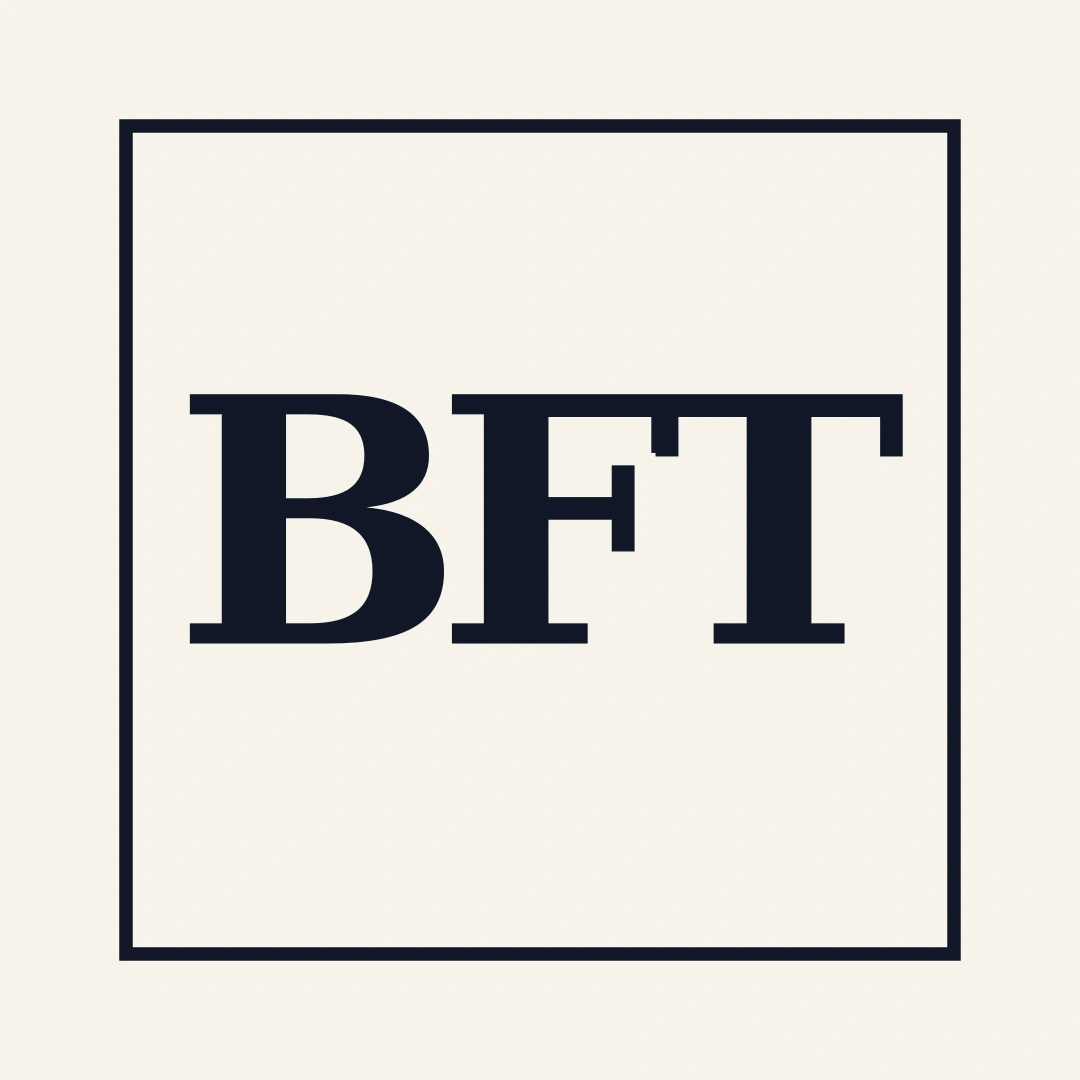
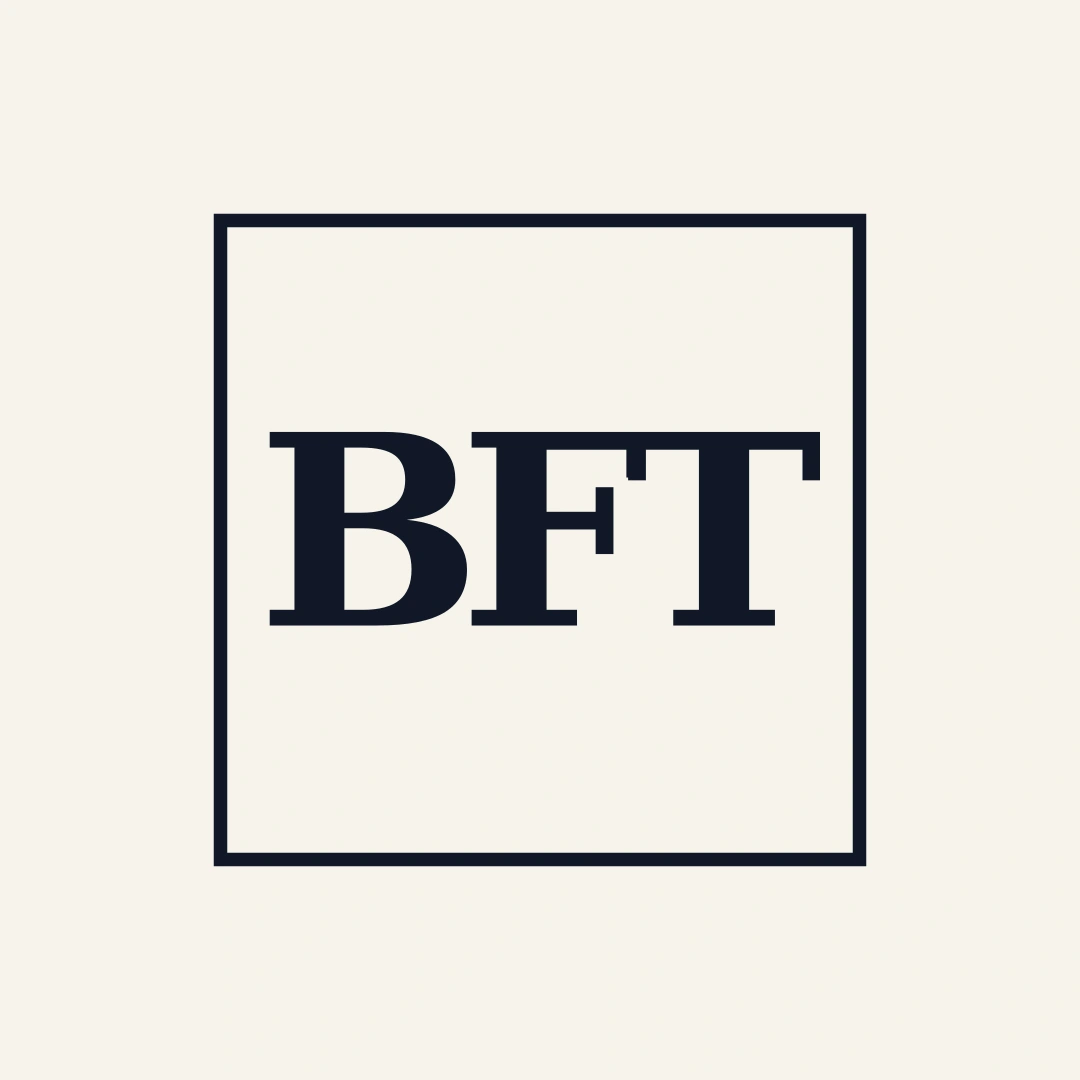
Make social profile marks circle-safe

Changed region(s): [[0.0917, 0.0917, 0.9167, 0.9167]]

diff --git a/app/brand-review/page.tsx b/app/brand-review/page.tsx
@@ -1,5 +1,5 @@
 import type {Metadata} from 'next';import fs from 'node:fs/promises';import path from 'node:path';
-type Asset={name:string;meta:string;src:string;kind:'wide'|'square';dark?:boolean};type Section={id:string;title:string;description:string;assets:Asset[]};type Manifest={brand:{name:string;shortName:string;tagline:string;domain:string;activeConcept:string;concept:{id:string;name:string;description:string};colors:Record<string,string>;rules:{compactMark:string;wordmark:string;minimumClearspace:string;doNot:string[]}};assetCount:number;sections:Section[]};
+type Asset={name:string;meta:string;src:string;kind:'wide'|'square';dark?:boolean};type Section={id:string;title:string;description:string;assets:Asset[]};type Manifest={brand:{name:string;shortName:string;tagline:string;domain:string;activeConcept:string;concept:{id:string;name:string;description:string};colors:Record<string,string>;rules:{compactMark:string;wordmark:string;minimumClearspace:string;profileCrop?:string;doNot:string[]}};assetCount:number;sections:Section[]};
 export const metadata:Metadata={title:'Brand Review',robots:{index:false,follow:false}};
-export default async function Page(){const m:Manifest=JSON.parse(await fs.readFile(path.join(process.cwd(),'public/brand-review-assets/manifest.json'),'utf8'));const b=m.brand;return <main className="brand-review brand-review--single"><header className="brand-review__hero"><div><p className="brand-review__eyebrow">BUSINESS FUTURE TODAY · BRAND SYSTEM</p><h1>{b.concept.name}</h1><p>{b.concept.description}</p></div><div className="brand-review__status"><span>CANONICAL BRAND</span><strong>{b.activeConcept}</strong><small>{m.assetCount} generated assets · one source of truth</small></div></header><section className="brand-review__tokens"><Token n="Ink" v={b.colors.ink}/><Token n="Paper" v={b.colors.paper}/><Token n="Accent" v={b.colors.accent}/><Token n="Muted" v={b.colors.muted}/></section><section className="brand-review__guidelines"><div><p className="brand-review__eyebrow">IDENTITY RULES</p><h2>How the brand behaves.</h2></div><div className="brand-review__rulegrid"><Rule n="Compact mark" v={b.rules.compactMark}/><Rule n="Wordmark" v={b.rules.wordmark}/><Rule n="Clearspace" v={b.rules.minimumClearspace}/><Rule n="Domain" v={b.domain}/></div><div className="brand-review__dont"><strong>Do not</strong>{b.rules.doNot.map(x=><span key={x}>{x}</span>)}</div></section>{m.sections.map(s=><section key={s.id} className="brand-library"><header><div><p className="brand-review__eyebrow">{s.id.replaceAll('-',' ')}</p><h2>{s.title}</h2><p>{s.description}</p></div><span>{s.assets.length} assets</span></header><div className={`brand-library__grid brand-library__grid--${s.id}`}>{s.assets.map(a=><AssetCard key={a.src} asset={a}/>)}</div></section>)}<section className="brand-review__handoff"><p className="brand-review__eyebrow">SYSTEM HANDOFF</p><h2>One brand config drives everything.</h2><div><span><strong>Source</strong>content/brand/brand.json</span><span><strong>Renderer</strong>scripts/render-brand-assets.mjs</span><span><strong>Review</strong>/brand-review</span><span><strong>Next integration</strong>Site + social renderer + newsletter</span></div></section></main>}
+export default async function Page(){const m:Manifest=JSON.parse(await fs.readFile(path.join(process.cwd(),'public/brand-review-assets/manifest.json'),'utf8'));const b=m.brand;return <main className="brand-review brand-review--single"><header className="brand-review__hero"><div><p className="brand-review__eyebrow">BUSINESS FUTURE TODAY · BRAND SYSTEM</p><h1>{b.concept.name}</h1><p>{b.concept.description}</p></div><div className="brand-review__status"><span>CANONICAL BRAND</span><strong>{b.activeConcept}</strong><small>{m.assetCount} generated assets · one source of truth</small></div></header><section className="brand-review__tokens"><Token n="Ink" v={b.colors.ink}/><Token n="Paper" v={b.colors.paper}/><Token n="Accent" v={b.colors.accent}/><Token n="Muted" v={b.colors.muted}/></section><section className="brand-review__guidelines"><div><p className="brand-review__eyebrow">IDENTITY RULES</p><h2>How the brand behaves.</h2></div><div className="brand-review__rulegrid"><Rule n="Compact mark" v={b.rules.compactMark}/><Rule n="Wordmark" v={b.rules.wordmark}/><Rule n="Clearspace" v={b.rules.minimumClearspace}/><Rule n="Profile crop" v={b.rules.profileCrop||"Circle-safe inset mark for social avatars."}/><Rule n="Domain" v={b.domain}/></div><div className="brand-review__dont"><strong>Do not</strong>{b.rules.doNot.map(x=><span key={x}>{x}</span>)}</div></section>{m.sections.map(s=><section key={s.id} className="brand-library"><header><div><p className="brand-review__eyebrow">{s.id.replaceAll('-',' ')}</p><h2>{s.title}</h2><p>{s.description}</p></div><span>{s.assets.length} assets</span></header><div className={`brand-library__grid brand-library__grid--${s.id}`}>{s.assets.map(a=><AssetCard key={a.src} asset={a}/>)}</div></section>)}<section className="brand-review__handoff"><p className="brand-review__eyebrow">SYSTEM HANDOFF</p><h2>One brand config drives everything.</h2><div><span><strong>Source</strong>content/brand/brand.json</span><span><strong>Renderer</strong>scripts/render-brand-assets.mjs</span><span><strong>Review</strong>/brand-review</span><span><strong>Next integration</strong>Site + social renderer + newsletter</span></div></section></main>}
 function Token({n,v}:{n:string;v:string}){return <div><span>{n}</span><i style={{background:v}}/><code>{v}</code></div>};function Rule({n,v}:{n:string;v:string}){return <div><strong>{n}</strong><span>{v}</span></div>};function AssetCard({asset:a}:{asset:Asset}){return <article className={`brand-asset ${a.kind==='square'?'brand-asset--square':''} ${a.dark?'brand-asset--dark':''}`}><div className="brand-asset__label"><strong>{a.name}</strong><span>{a.meta}</span></div><a href={a.src} target="_blank" rel="noreferrer"><div className="brand-asset__stage"><img src={a.src} alt={a.name}/></div></a><a href={a.src} target="_blank" rel="noreferrer" className="brand-asset__open">Open asset ↗</a></article>}

diff --git a/app/globals.css b/app/globals.css
@@ -261,3 +261,6 @@ h1, h2, h3 { font-weight: 600; letter-spacing: -.06em; }
 .brand-review--single .brand-review__hero h1{text-transform:none}.brand-review__guidelines,.brand-library,.brand-review__handoff{max-width:1500px;margin:0 auto 64px}.brand-review__guidelines{background:#fff;border:1px solid #d7dce3;padding:34px}.brand-review__guidelines h2,.brand-library h2,.brand-review__handoff h2{margin:6px 0 10px;font-size:42px;letter-spacing:-.045em}.brand-review__rulegrid{display:grid;grid-template-columns:repeat(4,1fr);gap:1px;background:#d7dce3;margin-top:26px}.brand-review__rulegrid>div{background:#fff;padding:20px;display:grid;gap:8px}.brand-review__rulegrid strong{font-size:11px;text-transform:uppercase;letter-spacing:.07em}.brand-review__rulegrid span{color:#596474;font:14px/1.45 Georgia,serif}.brand-review__dont{display:flex;gap:18px;flex-wrap:wrap;margin-top:20px;padding-top:20px;border-top:1px solid #e0e4e9}.brand-review__dont strong{font-size:11px;text-transform:uppercase;letter-spacing:.07em}.brand-review__dont span{font-size:12px;color:#667180}.brand-library{padding-top:28px;border-top:3px solid #111827}.brand-library>header{display:flex;justify-content:space-between;gap:30px;align-items:flex-end;margin-bottom:22px}.brand-library>header>div>p:last-child{max-width:720px;margin:0;color:#5d6878;font:15px/1.45 Georgia,serif}.brand-library>header>span{font-size:11px;color:#727d8c;text-transform:uppercase;letter-spacing:.08em}.brand-library__grid{display:grid;grid-template-columns:repeat(2,minmax(0,1fr));gap:20px}.brand-library__grid--icons,.brand-library__grid--profiles{grid-template-columns:repeat(4,minmax(0,1fr))}.brand-library__grid--social-system{grid-template-columns:repeat(2,minmax(0,1fr))}.brand-asset__stage{min-height:160px;display:grid;place-items:center;background:#f6f3eb;border:1px solid #ece9e1;overflow:hidden}.brand-asset--dark .brand-asset__stage{background:#111827}.brand-asset__stage img{max-width:100%;max-height:100%;object-fit:contain}.brand-library__grid--master .brand-asset--square .brand-asset__stage,.brand-library__grid--icons .brand-asset__stage,.brand-library__grid--profiles .brand-asset__stage{aspect-ratio:1}.brand-library__grid--icons .brand-asset__stage img{width:74%;height:74%;object-fit:contain}.brand-review__handoff{background:#111827;color:#fff;padding:38px}.brand-review__handoff .brand-review__eyebrow{color:#98a3b2}.brand-review__handoff>div{display:grid;grid-template-columns:repeat(4,1fr);gap:1px;background:#394150;margin-top:24px}.brand-review__handoff span{background:#111827;padding:20px;display:grid;gap:7px;color:#b8c1cd;font:13px/1.4 Georgia,serif}.brand-review__handoff strong{color:#fff;font:800 10px Arial;text-transform:uppercase;letter-spacing:.07em}@media(max-width:1100px){.brand-review__rulegrid,.brand-review__handoff>div{grid-template-columns:1fr 1fr}.brand-library__grid--icons,.brand-library__grid--profiles{grid-template-columns:repeat(2,1fr)}}@media(max-width:680px){.brand-review__rulegrid,.brand-review__handoff>div,.brand-library__grid,.brand-library__grid--icons,.brand-library__grid--profiles,.brand-library__grid--social-system{grid-template-columns:1fr}.brand-library>header{display:block}.brand-library>header>span{display:inline-block;margin-top:8px}.brand-review__guidelines{padding:24px 18px}}
 /* Canonical Edition brand */
 .pub-brand{display:inline-flex;align-items:center;width:210px;max-width:100%;line-height:normal;letter-spacing:normal}.pub-brand img{display:block;width:100%;height:auto;object-fit:contain}.pub-brand--footer{width:230px}.pub-brand--footer img{width:100%}@media(max-width:720px){.pub-brand{width:190px}}
+
+/* Social profile crop simulation */
+.brand-library__grid--profiles .brand-asset__stage{border-radius:50%;overflow:hidden;box-shadow:0 0 0 1px #d7dce3}.brand-library__grid--profiles .brand-asset__stage img{width:100%;height:100%;object-fit:cover}
